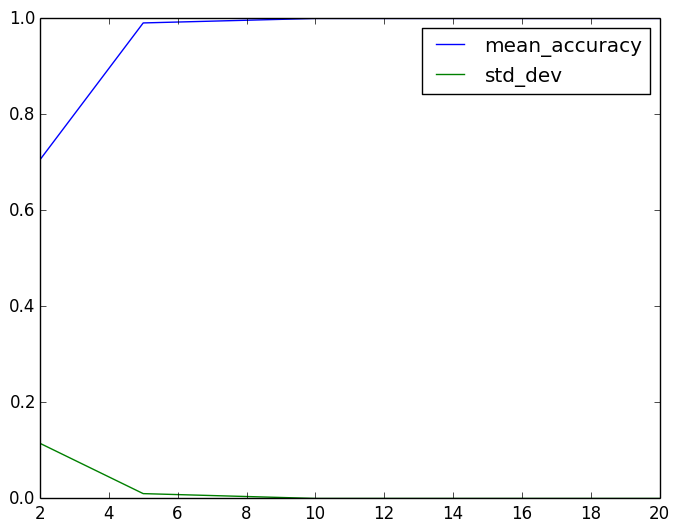
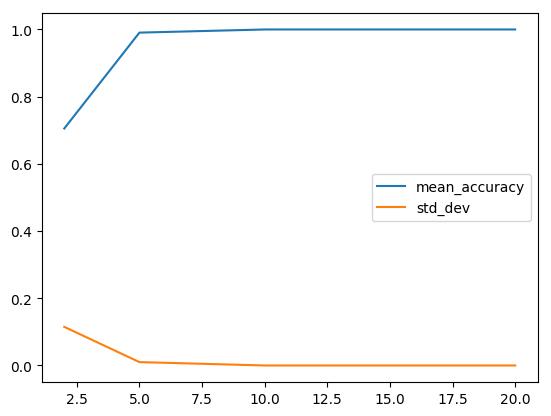
Added adaboost and perceptron. Needs fixing

diff --git a/adaboost_kfold.py b/adaboost_kfold.py
@@ -1,0 +1,60 @@
+import matplotlib.pyplot as plt
+
+import time
+import numpy as np
+import pandas as pd
+
+import data
+import project
+import kfoldcv
+
+if __name__ == '__main__':
+
+    # Load (X, y) dataset
+    X, y = data.load(project.config['filename'], project.config['label'])
+
+    # Get X as a numpy matrix
+    X = X.values
+
+    # Import models
+    from sklearn.ensemble import AdaBoostClassifier
+
+    models = []
+    models.append(("Adaboost-n_estimators 50", AdaBoostClassifier, {'n_estimators':50}))
+    models.append(("Adaboost-n_estimators 100", AdaBoostClassifier, {'n_estimators':100}))
+    models.append(("Adaboost-learning_rate 1", AdaBoostClassifier, {'learning_rate':1}))
+    models.append(("Adaboost-learning_rate 10", AdaBoostClassifier, {'learning_rate':10}))
+    models.append(("Adaboost-algorithm SAMME", AdaBoostClassifier, {'algorithm':'SAMME'}))
+    models.append(("Adaboost-algorithm SAMME.R", AdaBoostClassifier, {'algorithm':'SAMME.R'}))
+
+    # For each algorithm
+    for name, model, n_estimators in models:
+
+        print "Model:\t%s" % (name)
+        start = time.time()
+
+        # Folds
+        xrange = [2, 5, 10, 20]
+
+        # Mean accuracy and std dev
+        m = []
+        s = []
+
+        # For each fold size
+        for i in xrange:
+            Z = kfoldcv.run(X, y, model, i)
+            m.append(np.mean(Z))
+            s.append(np.std(Z))
+            print "\t%d-fold: (mu=%.3f, sigma=%.3f)" % (i, np.mean(Z), np.std(Z))
+
+        # Plot accuracy vs. fold size
+        df = pd.DataFrame({
+            'mean_accuracy': m,
+            'std_dev': s
+        }, index = xrange)
+
+        lines = df.plot.line()
+        filename = project.results + name + "_accuracy_vs_folds.png"
+        plt.savefig(filename, bbox_inches='tight')
+
+        print "\tTime: %.3fs" % (time.time() - start)

diff --git a/perceptron_kfold.py b/perceptron_kfold.py
@@ -1,0 +1,60 @@
+import matplotlib.pyplot as plt
+
+import time
+import numpy as np
+import pandas as pd
+
+import data
+import project
+import kfoldcv
+
+if __name__ == '__main__':
+
+    # Load (X, y) dataset
+    X, y = data.load(project.config['filename'], project.config['label'])
+
+    # Get X as a numpy matrix
+    X = X.values
+
+    # Import models
+    from sklearn.linear_model import Perceptron
+
+    models = []
+    models.append(("Perceptron-alpha 0.0001", Perceptron, {'alpha': 0.0001}))
+    models.append(("Perceptron-alpha 1", Perceptron, {'alpha': 1}))
+    models.append(("Perceptron-alpha 100", Perceptron, {'alpha': 100}))
+    models.append(("Perceptron-pentalty l2", Perceptron, {'pentalty': 'l2'}))
+    models.append(("Perceptron-pentalty l1", Perceptron, {'pentalty': 'l1'}))
+    models.append(("Perceptron-pentalty elasticnet", Perceptron, {'pentalty': 'elasticnet'}))
+
+    # For each algorithm
+    for name, model, n_estimators in models:
+
+        print "Model:\t%s" % (name)
+        start = time.time()
+
+        # Folds
+        xrange = [2, 5, 10, 20]
+
+        # Mean accuracy and std dev
+        m = []
+        s = []
+
+        # For each fold size
+        for i in xrange:
+            Z = kfoldcv.run(X, y, model, i)
+            m.append(np.mean(Z))
+            s.append(np.std(Z))
+            print "\t%d-fold: (mu=%.3f, sigma=%.3f)" % (i, np.mean(Z), np.std(Z))
+
+        # Plot accuracy vs. fold size
+        df = pd.DataFrame({
+            'mean_accuracy': m,
+            'std_dev': s
+        }, index = xrange)
+
+        lines = df.plot.line()
+        filename = project.results + name + "_accuracy_vs_folds.png"
+        plt.savefig(filename, bbox_inches='tight')
+
+        print "\tTime: %.3fs" % (time.time() - start)

diff --git a/kfoldada_graph.py b/kfoldada_graph.py
@@ -1,0 +1,41 @@
+from sklearn.metrics import accuracy_score
+
+import numpy as np
+
+def run(X, y, model, k, verbose=False, *args, **alpha):
+    # Get n (samples) and d (dimensions)
+    (n, d) = X.shape
+
+    # Initialize Z
+    Z = np.zeros((k, 1))
+
+    if verbose:
+        print "%d-Fold CV\tModel: %s" % (k, model)
+
+    # For each fold
+    for i in range(k):
+        # Find sets S and T
+        lower = np.floor(float(n) * i / k).astype('int64')
+        upper = np.floor(float(n) * (i + 1) / k - 1).astype('int64')
+        T = range(lower, upper + 1)
+        S = range(0, lower) + range(upper + 1, n)
+
+        # Get training data
+        X_train = X[S, :]
+        y_train = y[S]
+
+        # Fit model
+        m = model(**alpha)
+        m.fit(X_train, y_train)
+
+        # Check prediction accuracy
+        y_pred = m.predict(X[T])
+
+        # Update Z values based on accuracy score
+        Z[i] = accuracy_score(y[T], y_pred)
+
+        if verbose:
+            print "\t\tIteration (%d/%d)\tAccuracy Score: %f" % (i + 1, k, Z[i])
+
+    # Return k-Fold results
+    return Z

diff --git a/kfoldperc_graph.py b/kfoldperc_graph.py
@@ -1,0 +1,41 @@
+from sklearn.metrics import accuracy_score
+
+import numpy as np
+
+def run(X, y, model, k, verbose=False, *args, **alpha):
+    # Get n (samples) and d (dimensions)
+    (n, d) = X.shape
+
+    # Initialize Z
+    Z = np.zeros((k, 1))
+
+    if verbose:
+        print "%d-Fold CV\tModel: %s" % (k, model)
+
+    # For each fold
+    for i in range(k):
+        # Find sets S and T
+        lower = np.floor(float(n) * i / k).astype('int64')
+        upper = np.floor(float(n) * (i + 1) / k - 1).astype('int64')
+        T = range(lower, upper + 1)
+        S = range(0, lower) + range(upper + 1, n)
+
+        # Get training data
+        X_train = X[S, :]
+        y_train = y[S]
+
+        # Fit model
+        m = model(**alpha)
+        m.fit(X_train, y_train)
+
+        # Check prediction accuracy
+        y_pred = m.predict(X[T])
+
+        # Update Z values based on accuracy score
+        Z[i] = accuracy_score(y[T], y_pred)
+
+        if verbose:
+            print "\t\tIteration (%d/%d)\tAccuracy Score: %f" % (i + 1, k, Z[i])
+
+    # Return k-Fold results
+    return Z
